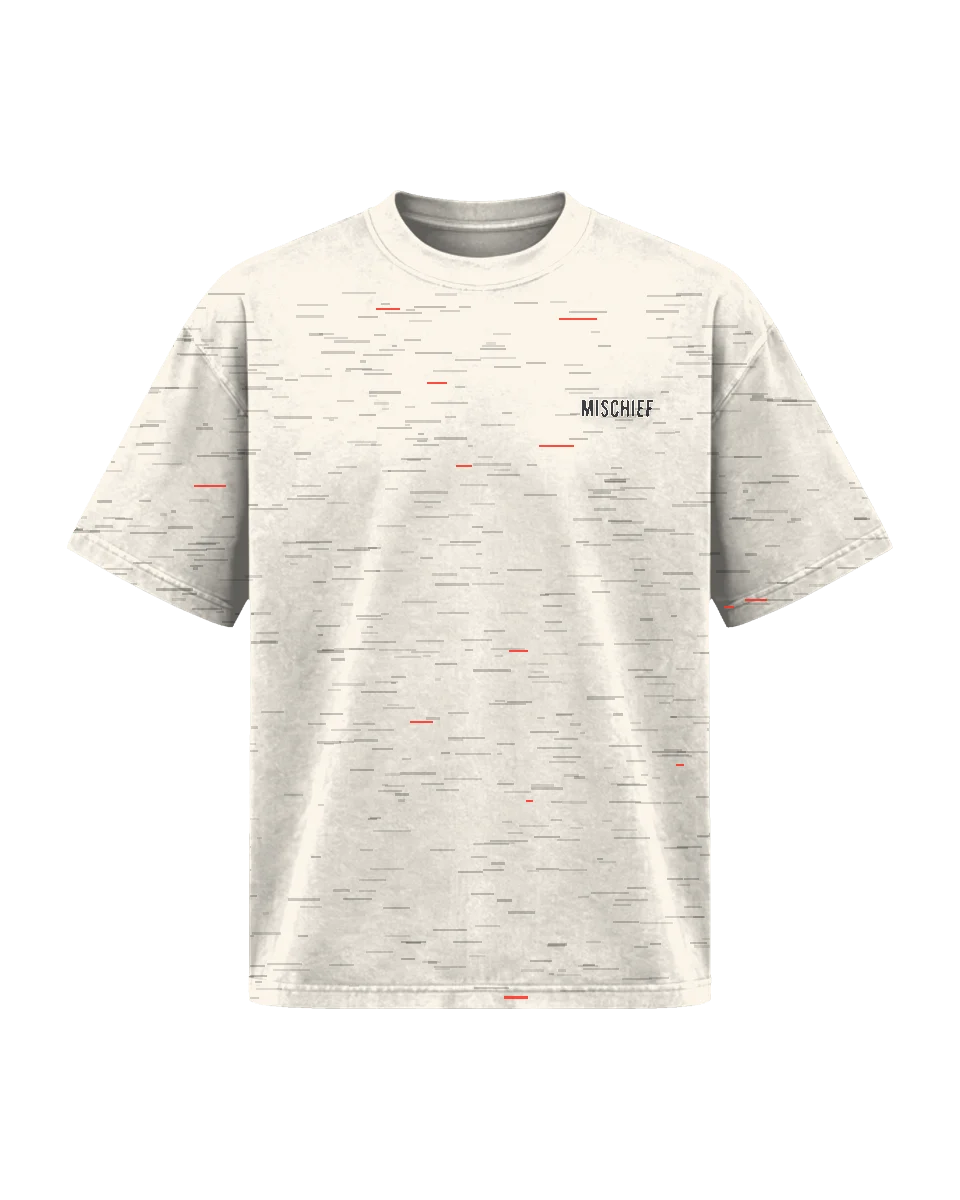
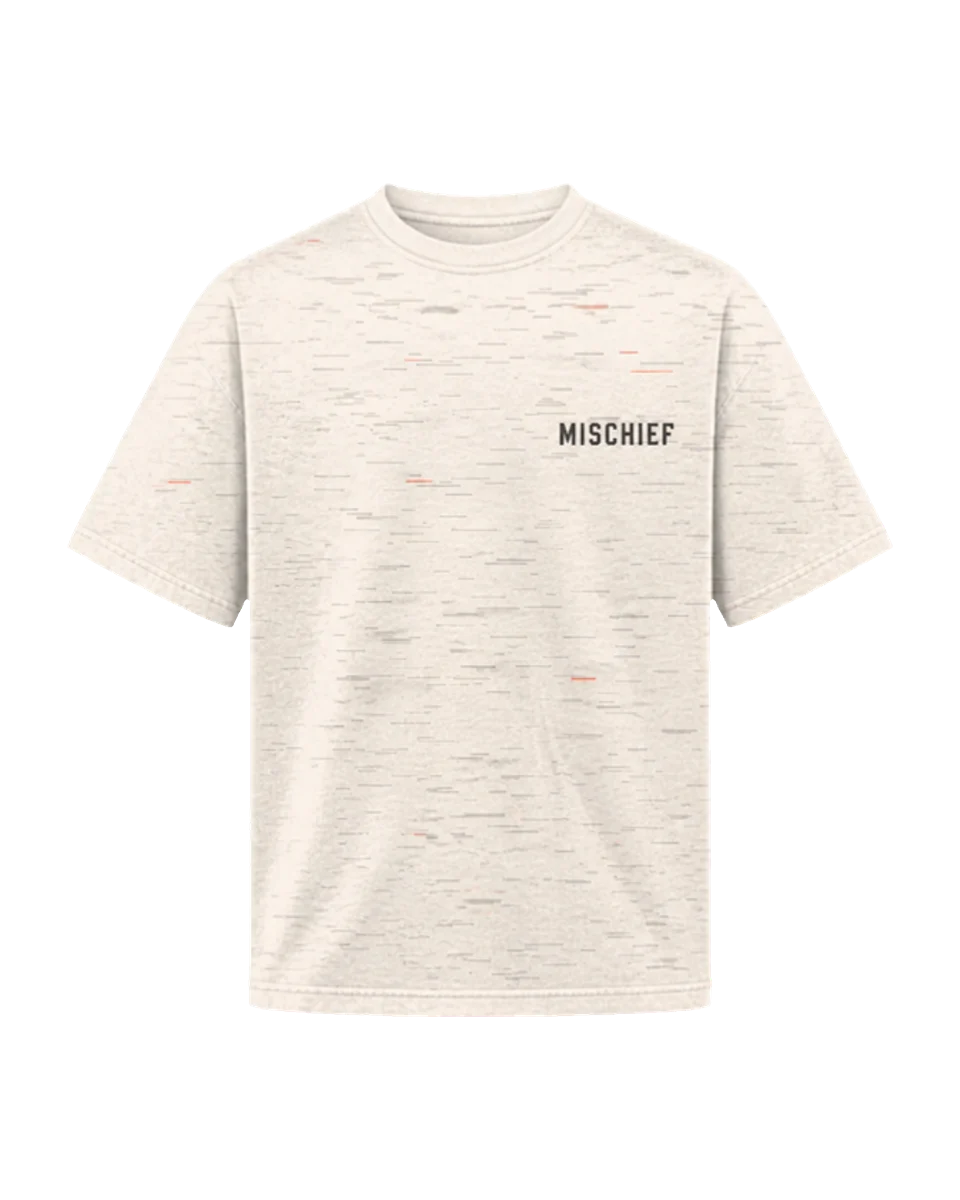
mobile and 3d fix

diff --git a/js/studio/garment-art.js b/js/studio/garment-art.js
@@ -1,36 +1,42 @@
 /* ==========================================================================
-   MISCHIEF — Design Studio garment silhouettes (Tee / Hoodie, Front / Back)
-   All shapes share a 480x600 viewBox so print-zone overlays can be positioned
-   with simple percentages that line up with the art.
+   MISCHIEF — Design Studio garments (Tee / Hoodie, Front / Back).
+   Each garment is a photo turned into a greyscale "shading map"
+   (assets/studio/<type>-<view>.webp). The browser tints that map with the
+   chosen colour, so the folds and fabric stay real while the colour changes
+   live. The ribbed parts (collar, sleeve hems, cuffs, bottom hem) are tinted
+   separately with the trim colour.
+
+   Everything is laid out on a 480x600 grid that matches the photos, so the
+   print zones and the trim shapes below line up with the garment.
    ========================================================================== */
 
 export const GARMENT_VIEWBOX = { w: 480, h: 600 };
 
-/* Zone rects, in viewBox units — single source of truth, also used for the
-   CSS overlay positioning (converted to % by zoneToPercent). */
+/* Print zones, in grid units — single source of truth, also used for the
+   overlay positioning (converted to % by zoneToPercent). */
 export const GARMENT_ZONES = {
   tee: {
     front: {
-      neck: { x: 205, y: 108, w: 70, h: 28, label: "Neck" },
-      front: { x: 160, y: 158, w: 160, h: 220, label: "Front" },
-      sleeveLeft: { x: 52, y: 172, w: 72, h: 68, label: "Left Sleeve" },
-      sleeveRight: { x: 356, y: 172, w: 72, h: 68, label: "Right Sleeve" }
+      neck: { x: 205, y: 152, w: 70, h: 26, label: "Neck" },
+      front: { x: 150, y: 188, w: 180, h: 230, label: "Front" },
+      sleeveLeft: { x: 66, y: 212, w: 54, h: 62, label: "Left Sleeve" },
+      sleeveRight: { x: 360, y: 212, w: 54, h: 62, label: "Right Sleeve" }
     },
     back: {
-      back: { x: 150, y: 150, w: 180, h: 290, label: "Back" },
-      hem: { x: 205, y: 522, w: 70, h: 26, label: "Hem" }
+      back: { x: 145, y: 128, w: 190, h: 300, label: "Back" },
+      hem: { x: 205, y: 460, w: 70, h: 26, label: "Hem" }
     }
   },
   hoodie: {
     front: {
-      neck: { x: 205, y: 128, w: 70, h: 26, label: "Neck" },
-      front: { x: 150, y: 175, w: 180, h: 175, label: "Front" },
-      sleeveLeft: { x: 50, y: 185, w: 72, h: 68, label: "Left Sleeve" },
-      sleeveRight: { x: 358, y: 185, w: 72, h: 68, label: "Right Sleeve" }
+      neck: { x: 205, y: 158, w: 70, h: 26, label: "Neck" },
+      front: { x: 150, y: 192, w: 180, h: 156, label: "Front" },
+      sleeveLeft: { x: 64, y: 286, w: 48, h: 86, label: "Left Sleeve" },
+      sleeveRight: { x: 368, y: 286, w: 48, h: 86, label: "Right Sleeve" }
     },
     back: {
-      back: { x: 150, y: 165, w: 180, h: 280, label: "Back" },
-      hem: { x: 205, y: 522, w: 70, h: 26, label: "Hem" }
+      back: { x: 150, y: 202, w: 180, h: 240, label: "Back" },
+      hem: { x: 205, y: 450, w: 70, h: 26, label: "Hem" }
     }
   }
 };
@@ -49,6 +55,81 @@ export function zoneToPercent(rect) {
   };
 }
 
+/* ---------- Photo garment --------------------------------------------------- */
+
+/* Where the trim colour goes, as white shapes on the same grid. They are
+   feathered and clipped by the photo itself, so they only need to be close. */
+const band = (d, width) => `<path d="${d}" fill="none" stroke="#fff" stroke-width="${width}"/>`;
+const area = (points) => `<polygon points="${points}" fill="#fff"/>`;
+const TEE_SLEEVE_HEMS = band("M35,268 L125,312", 11) + band("M445,268 L355,312", 11);
+const TRIM_SHAPES = {
+  tee: {
+    front: band("M181,99 C196,150 284,150 299,99", 16) + TEE_SLEEVE_HEMS + band("M118,500 L362,500", 14),
+    back: band("M182,97 Q240,101 298,97", 16) + TEE_SLEEVE_HEMS + band("M118,502 L362,502", 14)
+  },
+  hoodie: {
+    front: area("44,506 97,512 97,552 44,552") + area("436,506 383,512 383,552 436,552")
+      + `<path d="M114,488 Q240,502 366,488 L366,536 L114,536 Z" fill="#fff"/>`,
+    back: area("42,503 97,508 97,548 42,548") + area("438,503 383,508 383,548 438,548")
+      + `<path d="M114,480 Q240,494 366,480 L366,528 L114,528 Z" fill="#fff"/>`
+  }
+};
+
+const rgb = (hex) => {
+  const c = hex.replace("#", "");
+  const n = parseInt(c.length === 3 ? c.split("").map((x) => x + x).join("") : c, 16);
+  return [(n >> 16) & 255, (n >> 8) & 255, n & 255];
+};
+
+/** A "gradient map" filter: shading-map black becomes a deep shadow of the
+ *  colour, mid grey the colour itself, white its highlight. */
+function tintFilter(id, hex) {
+  const base = rgb(hex);
+  const lum = (0.299 * base[0] + 0.587 * base[1] + 0.114 * base[2]) / 255;
+  const lift = 0.2 - 0.06 * lum; // dark colours need a slightly stronger highlight for the folds to read
+  const table = (i) => {
+    const v = base[i];
+    const dark = v * 0.42, light = v + (255 - v) * lift;
+    return [dark, (dark + v) / 2, v, (v + light) / 2, light].map((x) => (x / 255).toFixed(3)).join(" ");
+  };
+  return `<filter id="${id}" color-interpolation-filters="sRGB" x="0" y="0" width="100%" height="100%">
+      <feComponentTransfer>
+        <feFuncR type="table" tableValues="${table(0)}"/>
+        <feFuncG type="table" tableValues="${table(1)}"/>
+        <feFuncB type="table" tableValues="${table(2)}"/>
+      </feComponentTransfer>
+    </filter>`;
+}
+
+/**
+ * Inline <svg> string for the Studio garment.
+ * @param {"tee"|"hoodie"} type
+ * @param {"front"|"back"} view
+ * @param {string} mainColor hex
+ * @param {string} trimColor hex (collar / sleeve hems / cuffs / bottom hem)
+ */
+export function garmentSVG(type, view, mainColor, trimColor) {
+  const uid = `${type}-${view}-${Math.random().toString(36).slice(2, 7)}`;
+  const photo = `<image href="assets/studio/${type}-${view}.webp" width="480" height="600" preserveAspectRatio="none"`;
+  return `
+<svg viewBox="0 0 480 600" xmlns="http://www.w3.org/2000/svg" class="garment-svg" role="img" aria-label="${type === "hoodie" ? "Hoodie" : "T-shirt"}, ${view}">
+  <defs>
+    ${tintFilter(`main-${uid}`, mainColor)}
+    ${tintFilter(`trim-${uid}`, trimColor)}
+    <filter id="soft-${uid}" x="-5%" y="-5%" width="110%" height="110%"><feGaussianBlur stdDeviation="1.4"/></filter>
+    <mask id="mask-${uid}" maskUnits="userSpaceOnUse" x="0" y="0" width="480" height="600">
+      <g filter="url(#soft-${uid})">${TRIM_SHAPES[type][view]}</g>
+    </mask>
+  </defs>
+  ${photo} filter="url(#main-${uid})"/>
+  ${photo} filter="url(#trim-${uid})" mask="url(#mask-${uid})"/>
+</svg>`.trim();
+}
+
+/* ---------- Drawn shapes ----------------------------------------------------
+   Only used by the showroom's stand-in art (js/scene/standins.js), for a piece
+   that has no photo yet. */
+
 /** amt: -1..1 — negative darkens, positive lightens. */
 export function shade(hex, amt) {
   const c = hex.replace("#", "");
@@ -59,7 +140,7 @@ export function shade(hex, amt) {
   return `rgb(${r},${g},${b})`;
 }
 
-/** Base torso + short sleeves silhouette (shared by the Studio tee & hoodie). */
+/** Base torso + short sleeves silhouette. */
 export function torsoPath(neckDip) {
   return `M150,90
     C150,90 172,66 205,${58 + neckDip}
@@ -68,10 +149,6 @@ export function torsoPath(neckDip) {
     L428,168 L398,228 L344,202
     L344,560 L136,560 L136,202
     L82,228 L52,168 Z`;
-}
-
-function ribbing(y, trimColor) {
-  return `<rect x="150" y="${y}" width="180" height="14" rx="6" fill="${trimColor}" opacity="0.9"/>`;
 }
 
 export function hoodShape(mode, mainColor) {
@@ -90,57 +167,4 @@ export function hoodShape(mode, mainColor) {
     <path d="M158,96 C158,30 196,4 240,4 C284,4 322,30 322,96 C322,118 300,128 240,128 C180,128 158,118 158,96 Z"
           fill="${mainColor}" stroke="${shade(mainColor, -0.25)}" stroke-width="3"/>
     <path d="M240,10 C270,10 300,32 300,80" fill="none" stroke="${shade(mainColor, 0.25)}" stroke-width="4" opacity="0.5" stroke-linecap="round"/>`;
-}
-
-/**
- * Inline <svg> string for the Studio garment.
- * @param {"tee"|"hoodie"} type
- * @param {"front"|"back"} view
- * @param {string} mainColor hex
- * @param {string} trimColor hex (ribbing / cuffs / hem)
- */
-export function garmentSVG(type, view, mainColor, trimColor) {
-  const isHoodie = type === "hoodie";
-  const neckDip = view === "front" ? (isHoodie ? 14 : 26) : 10;
-  const body = torsoPath(neckDip);
-  const dark = shade(mainColor, -0.22);
-  const light = shade(mainColor, 0.16);
-  const uid = `${type}-${view}-${Math.random().toString(36).slice(2, 7)}`;
-
-  const extras = isHoodie && view === "front" ? hoodShape("front", mainColor) : "";
-  const pocket = isHoodie && view === "front"
-    ? `<path d="M186,360 C186,392 200,412 240,412 C280,412 294,392 294,360 L294,352 L186,352 Z"
-      fill="none" stroke="${dark}" stroke-width="3" opacity="0.7"/>`
-    : "";
-
-  const cuffLeft = `<rect x="52" y="210" width="30" height="14" rx="6" fill="${trimColor}" transform="rotate(-18 67 217)" opacity="0.9"/>`;
-  const cuffRight = `<rect x="398" y="210" width="30" height="14" rx="6" fill="${trimColor}" transform="rotate(18 413 217)" opacity="0.9"/>`;
-  const hoodOnTop = isHoodie && view === "back" ? hoodShape("back", mainColor) : "";
-
-  return `
-<svg viewBox="0 0 480 600" xmlns="http://www.w3.org/2000/svg" class="garment-svg">
-  <defs>
-    <linearGradient id="fabric-${uid}" x1="0%" y1="0%" x2="100%" y2="100%">
-      <stop offset="0%" stop-color="${light}"/>
-      <stop offset="45%" stop-color="${mainColor}"/>
-      <stop offset="100%" stop-color="${dark}"/>
-    </linearGradient>
-    <radialGradient id="sheen-${uid}" cx="35%" cy="20%" r="70%">
-      <stop offset="0%" stop-color="#ffffff" stop-opacity="0.16"/>
-      <stop offset="60%" stop-color="#ffffff" stop-opacity="0"/>
-    </radialGradient>
-  </defs>
-
-  <path d="${body}" fill="none" stroke="rgba(255,255,255,0.22)" stroke-width="6" stroke-linejoin="round"/>
-  <path d="${body}" fill="url(#fabric-${uid})" stroke="${dark}" stroke-width="3" stroke-linejoin="round"/>
-  ${pocket}
-  ${extras}
-  ${ribbing(546, trimColor)}
-  ${cuffLeft}
-  ${cuffRight}
-  ${view === "front" && !isHoodie ? `<path d="M205,${58 + neckDip} C222,80 258,80 275,${58 + neckDip}" fill="none" stroke="${trimColor}" stroke-width="5" opacity="0.85"/>` : ""}
-  ${view === "back" ? `<path d="M205,${64 + neckDip} C222,${72 + neckDip} 258,${72 + neckDip} 275,${64 + neckDip}" fill="none" stroke="${trimColor}" stroke-width="5" opacity="0.85"/>` : ""}
-  ${hoodOnTop}
-  <path d="${body}" fill="url(#sheen-${uid})"/>
-</svg>`.trim();
 }

diff --git a/css/style.css b/css/style.css
@@ -261,6 +261,18 @@ body[data-view="shop"], body[data-view="product"] { touch-action: pan-y; }
 }
 .chips button:hover { color: var(--ink); border-color: var(--ink); }
 .chips button[aria-pressed="true"] { background: var(--ink); color: var(--bg); border-color: var(--ink); }
+/* Desktop: the ring's side pieces swing through the top-left corner. The filters
+   move into the top bar, and the heading is sized by window height (like the
+   ring itself) so it always ends above the pieces. */
+@media (min-width: 861px) {
+  .shop-head { top: 82px; gap: 8px; }
+  .shop-head h1 { font-size: clamp(30px, min(6vh, 4.6vw), 66px); }
+  .chips { position: fixed; top: 24px; left: 50%; transform: translateX(-50%); margin: 0; flex-wrap: nowrap; }
+}
+@media (min-width: 861px) and (max-width: 1100px) {
+  .chips { gap: 5px; }
+  .chips button { padding: 0 9px; letter-spacing: 0.08em; font-size: 10px; }
+}
 
 .ring-caption { position: fixed; left: 50%; bottom: calc(var(--pad) + 4px); z-index: 3; transform: translateX(-50%); display: flex; align-items: flex-end; gap: clamp(14px, 3vw, 44px); width: max-content; max-width: calc(100vw - 2 * var(--pad)); }
 .ring-caption__body { display: grid; gap: 6px; justify-items: center; text-align: center; min-width: min(60vw, 340px); }
@@ -316,7 +328,7 @@ body[data-view="shop"], body[data-view="product"] { touch-action: pan-y; }
   background: radial-gradient(70% 55% at 50% 22%, rgba(255, 255, 255, 0.1), rgba(255, 255, 255, 0) 70%);
 }
 .garment-stage::before { content: ""; position: absolute; left: 50%; top: -96px; width: 1px; height: 126px; background: linear-gradient(transparent, rgba(239, 236, 230, 0.5)); }
-.garment-wrap { position: absolute; inset: 5%; }
+.garment-wrap { position: absolute; inset: 0; }
 .garment-wrap .garment-svg { width: 100%; height: 100%; filter: drop-shadow(0 30px 40px rgba(0, 0, 0, 0.55)); }
 .studio-hint { color: var(--dim); font-size: 13px; text-align: center; }
 
@@ -325,9 +337,15 @@ body[data-view="shop"], body[data-view="product"] { touch-action: pan-y; }
   border: 1px dashed rgba(239, 236, 230, 0.45); background: rgba(239, 236, 230, 0.04); color: var(--ink);
   transition: border-color 0.2s, background 0.2s;
 }
-button.zone:hover { border-color: var(--red); background: rgba(255, 45, 32, 0.12); }
+.garment-stage[data-tone="light"] .zone:not(.zone--filled) { border-color: rgba(12, 12, 14, 0.6); background: rgba(12, 12, 14, 0.04); color: #131316; }
+button.zone:hover, .garment-stage[data-tone="light"] button.zone:hover { border-color: var(--red); background: rgba(255, 45, 32, 0.12); }
 .zone__plus { font-family: var(--mono); font-size: 18px; line-height: 1; }
-.zone__label { font-family: var(--mono); font-size: 9px; letter-spacing: 0.12em; text-transform: uppercase; text-align: center; }
+.zone__label { font-family: var(--mono); font-size: 9px; letter-spacing: 0.12em; line-height: 1.3; text-transform: uppercase; text-align: center; }
+/* Narrow sleeve zones: one word per line, so "LEFT SLEEVE" never touches the box. */
+.zone:is([data-zone^="sleeve"]) .zone__label { width: min-content; letter-spacing: 0.08em; }
+/* Shallow neck and hem zones: plus and label side by side. */
+.zone:is([data-zone="neck"], [data-zone="hem"]) { flex-direction: row; gap: 6px; }
+.zone:is([data-zone="neck"], [data-zone="hem"]) .zone__plus { font-size: 13px; }
 .zone--filled { border-style: solid; border-color: transparent; background: none; overflow: hidden; }
 .zone--filled:hover { border-color: rgba(239, 236, 230, 0.4); }
 .zone__art { position: absolute; top: 50%; left: 50%; width: 92%; height: auto; max-height: 92%; object-fit: contain; touch-action: none; user-select: none; -webkit-user-drag: none; }
@@ -335,6 +353,10 @@ button.zone:hover { border-color: var(--red); background: rgba(255, 45, 32, 0.12
 .zone--filled:hover .zone__tools { opacity: 1; }
 .zone__tools button { height: 24px; min-width: 24px; padding: 0 7px; background: rgba(0, 0, 0, 0.78); font-family: var(--mono); font-size: 10px; letter-spacing: 0.08em; text-transform: uppercase; }
 .zone__tools button:hover { background: var(--red); }
+/* Small zones only have room for the remove button; "Edit" stays in the Your designs list. */
+.zone:is([data-zone^="sleeve"], [data-zone="neck"], [data-zone="hem"]) .zone__tools { top: 1px; right: 1px; }
+.zone:is([data-zone^="sleeve"], [data-zone="neck"], [data-zone="hem"]) .zone__tools [data-zone-edit] { display: none; }
+.zone:is([data-zone^="sleeve"], [data-zone="neck"], [data-zone="hem"]) .zone__tools button { height: 18px; min-width: 18px; padding: 0 4px; }
 
 .studio__panel { display: grid; gap: 26px; }
 .block { display: grid; gap: 12px; }

diff --git a/js/data/products.js b/js/data/products.js
@@ -12,12 +12,14 @@
    ========================================================================== */
 
 const piece = (id) => ({ front: `assets/pieces/${id}-front.webp`, back: `assets/pieces/${id}-back.webp` });
+// 12 frames, one every 30°, all scaled to the same garment height.
+const turn = (id) => Array.from({ length: 12 }, (_, i) => `assets/pieces/${id}-turn-${String(i * 30).padStart(3, "0")}.webp`);
 
 export const PRODUCTS = [
   {
     id: "riot-hoodie",
     images: piece("riot-hoodie"),
-    turntable: null, // filled in below when the turntable frames exist
+    turntable: turn("riot-hoodie"),
     name: "Riot Hoodie",
     category: "Hoodies",
     kind: "hoodie",
@@ -90,8 +92,8 @@ export const PRODUCTS = [
     price: 39,
     color: { name: "Bone", hex: "#e4dfd5" },
     sizes: ["XS", "S", "M", "L", "XL", "XXL"],
-    description: "Bone tee covered in a static print, front and back, with STATIC across the shoulders.",
-    details: ["Heavyweight cotton jersey", "Boxy fit", "All-over static print", "STATIC print on the back", "Ribbed crew neck"]
+    description: "Bone tee covered in a static print, front and back. Small MISCHIEF wordmark on the chest, STATIC across the shoulders.",
+    details: ["Heavyweight cotton jersey", "Boxy fit", "All-over static print", "MISCHIEF wordmark on the chest", "STATIC print on the back", "Ribbed crew neck"]
   },
   {
     id: "curfew-hoodie",

diff --git a/js/views/studio.js b/js/views/studio.js
@@ -83,7 +83,11 @@ export default function studio({ stage, root, ui }) {
         </div>
       </div>`;
     }).join("");
-    host.innerHTML = `<div class="garment-wrap">${garmentSVG(state.garment, state.view, state.mainColor, state.trimColor)}</div>${hotspots}`;
+    // Light garments get dark zone outlines and labels, so they stay readable.
+    const [r, g, b] = [1, 3, 5].map((i) => parseInt(state.mainColor.slice(i, i + 2), 16));
+    host.dataset.tone = 0.299 * r + 0.587 * g + 0.114 * b > 150 ? "light" : "dark";
+    // The zones sit inside the same box as the photo, so they share its grid exactly.
+    host.innerHTML = `<div class="garment-wrap">${garmentSVG(state.garment, state.view, state.mainColor, state.trimColor)}${hotspots}</div>`;
 
     host.querySelectorAll("[data-zone]").forEach((el) => {
       const key = el.dataset.zone;

diff --git a/assets/pieces/README.md b/assets/pieces/README.md
@@ -4,9 +4,11 @@ The showroom uses a transparent cut-out PNG for each side of each piece. Any pie
 
 ## Status
 
-All ten pieces have a front and a back photo (20 files, about 0.8 MB in total). They were generated with Canva's AI image tool on a green screen, cut out, and saved as WebP. The Curfew Hoodie and Static Noise Tee fronts were made by recolouring the Riot Hoodie and Troublemaker Tee photos.
+All ten pieces have a front and a back photo (20 files, about 0.8 MB in total). They were generated with Canva's AI image tool on a green screen, cut out, and saved as WebP. The Curfew Hoodie front was made by recolouring the Riot Hoodie photo. The Static Noise Tee front was generated with its back as the reference, so the two sides match.
 
-Still missing: a turntable sequence for the hero piece (see below).
+The Design Studio's blank tee and hoodie live in `assets/studio/` (front and back of each). They are grey photos turned into greyscale shading maps, which the Studio tints live with the chosen garment and trim colours; see `js/studio/garment-art.js`.
+
+The hero piece (Riot Hoodie) also has a 12-frame turntable, `riot-hoodie-turn-000.webp` to `riot-hoodie-turn-330.webp`, one frame every 30°. The 0° and 180° frames are the front and back photos; the other ten were generated in Canva with the front and back as references. Unlike the other cut-outs, the turntable frames are all scaled to the same garment height, so the hoodie doesn't grow and shrink as the narrow side views come round.
 
 ## Adding a photo
 
@@ -17,7 +19,7 @@ Still missing: a turntable sequence for the hero piece (see below).
 
 A piece with a front photo but no back photo shows the front on both sides.
 
-For a true hero spin, add `turntable: [...]` to a piece with 12–24 frames of one full rotation.
+For a true hero spin, add `turntable: [...]` to a piece with 12–24 frames of one full rotation, starting at the front and turning so the front swings toward the right of the picture. Frame every angle at the same garment height.
 
 ## Prompts
 
@@ -38,7 +40,7 @@ For every **back** view, give the generator the matching front image as a refere
 | `static-hoodie-back` | Cropped boxy bone off-white hoodie, hood on the upper back, tonal grey TV-static print all over, a few tiny red glitch marks |
 | `sneak-cargo-front` | Tapered storm-grey ripstop cargo pants, elastic waist with drawcord, flap cargo pockets on both thighs, ankle zips |
 | `sneak-cargo-back` | Same cargo pants from behind, two back pockets, small red label on the waistband |
-| `staticnoise-tee-front` | Relaxed bone off-white tee, front covered in a tonal grey TV-static print, a few tiny red glitch marks |
+| `staticnoise-tee-front` | Generated from the back as reference: the same bone tee and static print seen from the front, small dark grey "MISCHIEF" wordmark on the left chest |
 | `staticnoise-tee-back` | Same tee from behind, plain, with "STATIC" in dark grey across the upper back |
 | `curfew-hoodie-front` | Clean midweight storm-grey hoodie, small tonal embroidered "MISCHIEF" on the left chest |
 | `curfew-hoodie-back` | Same hoodie from behind, "CURFEW" in off-white across the upper back |
